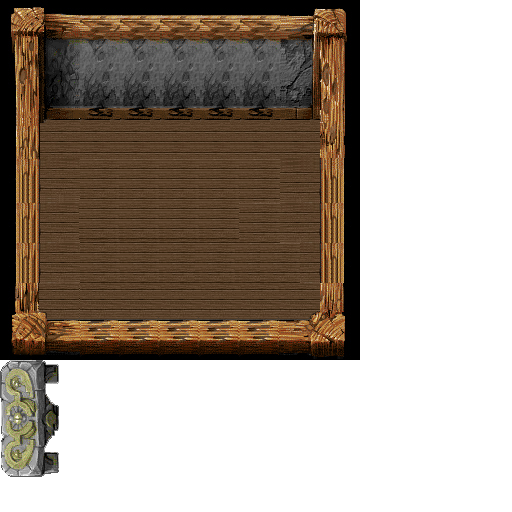
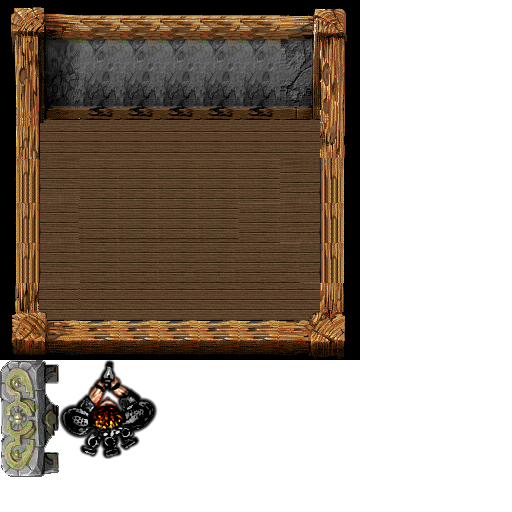
Player

Changed region(s): [[0.0938, 0.6875, 0.3125, 0.9062]]

diff --git a/gamePaco/src/com/me/gamePaco/GamePacoPlayer.java b/gamePaco/src/com/me/gamePaco/GamePacoPlayer.java
@@ -2,19 +2,18 @@ package com.me.gamePaco;
 
 import com.badlogic.gdx.graphics.g2d.Sprite;
 import com.badlogic.gdx.graphics.g2d.SpriteBatch;
-import com.badlogic.gdx.graphics.g2d.TextureAtlas;
 
-public class GamePacoMesa extends GamePacoObject{
-	private Sprite mesa;
+public class GamePacoPlayer extends GamePacoObject{
+	private Sprite player;
 	private int largo;
 	private int alto;
 	
-	public GamePacoMesa() {
+	public GamePacoPlayer() {
 		init();
 	}
 	
 	private void init () {
-		mesa=GamePacoLoader.instance.mesa;
+		player=GamePacoLoader.instance.player;
 		setLargo(1);
 		setAlto(1);
 	}
@@ -34,11 +33,11 @@ public class GamePacoMesa extends GamePacoObject{
 	
 	@Override
 	public void render (SpriteBatch batch) {
-		float relX = 100;
-		float relY = 100;
+		float relX = 50;
+		float relY = 200;
 
 		// Dibujamos el mapa
-		mesa.setPosition(this.posicion.x + relX, this.posicion.y);
-		mesa.draw(batch);
+		player.setPosition(this.posicion.x + relX, this.posicion.y);
+		player.draw(batch);
 	}
 }

diff --git a/gamePaco/src/com/me/gamePaco/GamePacoObject.java b/gamePaco/src/com/me/gamePaco/GamePacoObject.java
@@ -1,6 +1,7 @@
 package com.me.gamePaco;
 
 import com.badlogic.gdx.graphics.g2d.SpriteBatch;
+import com.badlogic.gdx.math.Rectangle;
 import com.badlogic.gdx.math.Vector2;
 
 public abstract class GamePacoObject {
@@ -11,6 +12,13 @@ public abstract class GamePacoObject {
 	public Vector2 escala;
 	public float rotacion;
 	
+	//Almacenara atributos caracteristicos de los actores
+	public Vector2 velocidad;
+	public Vector2 terminalVelocidad;
+	public Vector2 friccion;
+	public Vector2 aceleracion;
+	public Rectangle limites;
+	
 
 	public GamePacoObject() {
 		posicion = new Vector2();
@@ -18,6 +26,12 @@ public abstract class GamePacoObject {
 		origen = new Vector2();
 		escala = new Vector2(1, 1);
 		rotacion = 0;
+		
+		velocidad = new Vector2();
+		terminalVelocidad = new Vector2(1, 1);
+		friccion = new Vector2();
+		aceleracion = new Vector2();
+		limites = new Rectangle();
 	}
 	
 	public void update (float deltaTime) {

diff --git a/gamePaco/src/com/me/gamePaco/GamePacoLoader.java b/gamePaco/src/com/me/gamePaco/GamePacoLoader.java
@@ -9,12 +9,16 @@ public class GamePacoLoader {
 	public static final GamePacoLoader instance = new GamePacoLoader();
 	//objetos
 	public Sprite mapa;
+	public Sprite mesa;
+	public Sprite player;
 
 	private GamePacoLoader () {}
 	
 	public void init () {
 		TextureAtlas spriteSheet = new TextureAtlas("GamePacoPack_v3.txt");
 		mapa=spriteSheet.createSprite("Mapa01");
+		mesa=spriteSheet.createSprite("Mesa");
+		player=spriteSheet.createSprite("player");
 	}
 
 }

diff --git a/gamePaco/src/com/me/gamePaco/GamePacoRenderer.java b/gamePaco/src/com/me/gamePaco/GamePacoRenderer.java
@@ -34,6 +34,8 @@ public class GamePacoRenderer implements Disposable{
 		
 		batch.begin();
 			gC.gcMapa.render(batch);
+			gC.gcMesa.render(batch);
+			gC.gcPlayer.render(batch);
 			//gC.objetos.get(0).draw(batch);
 			//gC.cube.draw(batch);
 			//gC.platStatic1.draw(batch);

diff --git a/gamePaco/src/com/me/gamePaco/GamePacoMapa.java b/gamePaco/src/com/me/gamePaco/GamePacoMapa.java
@@ -17,7 +17,6 @@ public class GamePacoMapa  extends GamePacoObject{
 	
 	private void init () {
 		mapa=GamePacoLoader.instance.mapa;
-		// Start length of this rock
 		setLargo(1);
 		setAlto(1);
 	}
